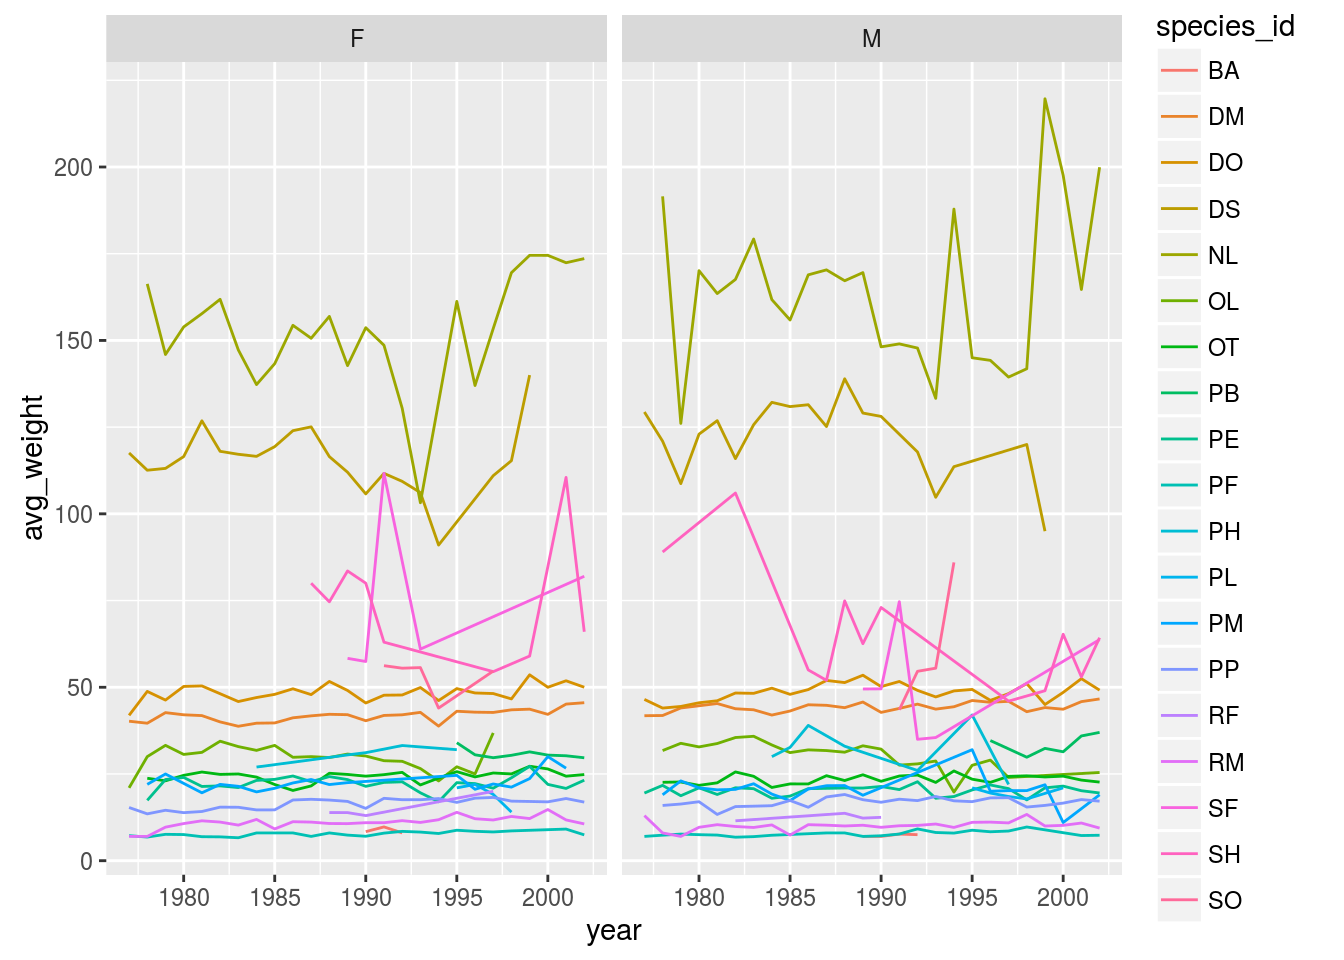
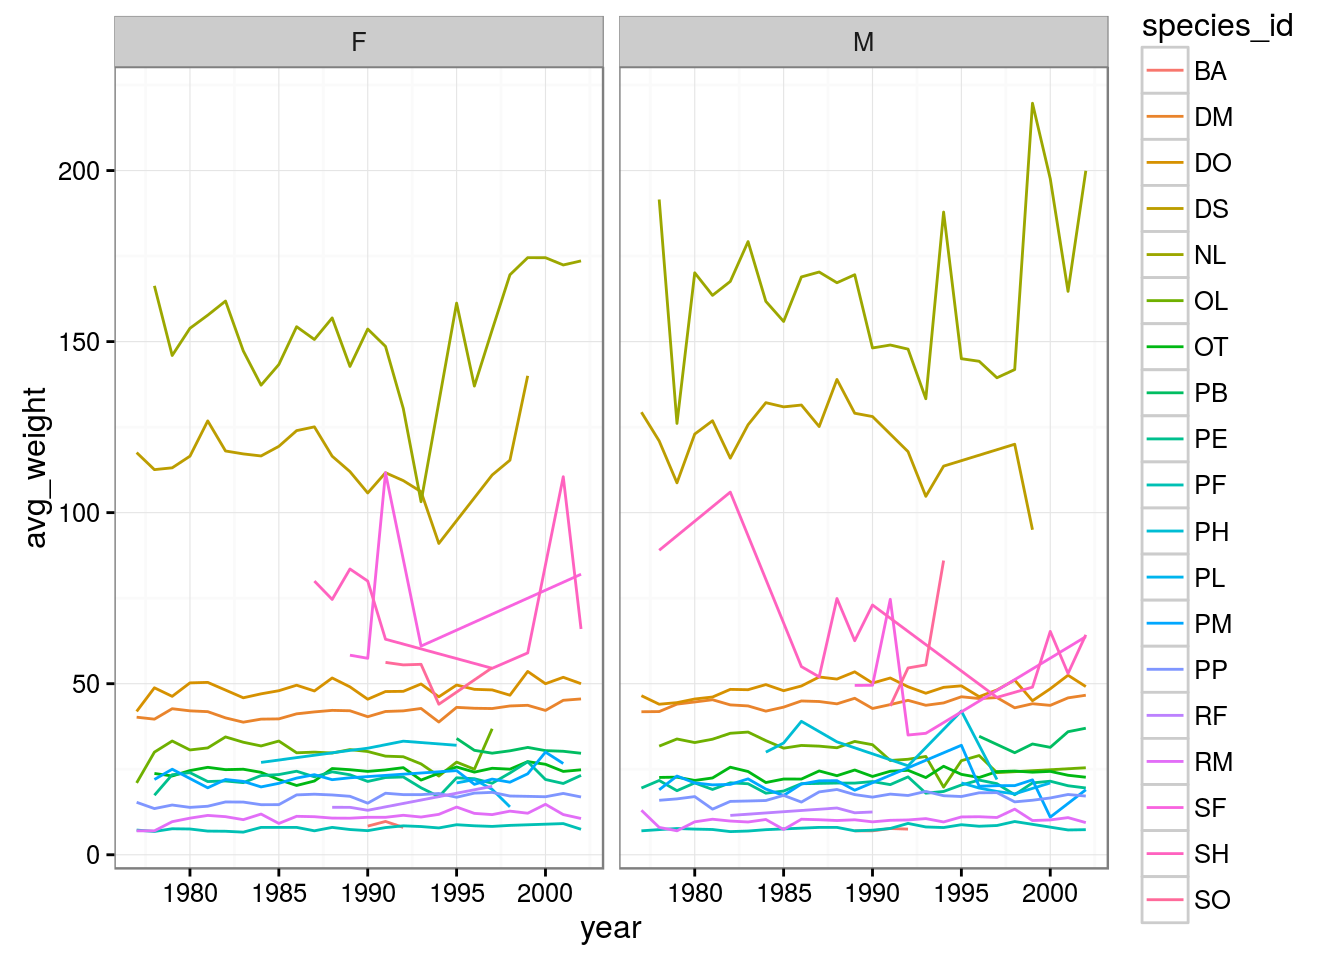
render visualization lesson

diff --git a/05-visualization-ggplot2.html b/05-visualization-ggplot2.html
@@ -276,11 +276,15 @@ surveys_complete &lt;-<span class="st"> </span>surveys_complete %&gt;%
 <div class="sourceCode"><pre class="sourceCode r"><code class="sourceCode r"><span class="kw">ggplot</span>(<span class="dt">data =</span> yearly_sex_counts, <span class="kw">aes</span>(<span class="dt">x =</span> year, <span class="dt">y =</span> n, <span class="dt">color =</span> species_id, <span class="dt">group =</span> sex)) +
 <span class="st">  </span><span class="kw">geom_line</span>() +<span class="st"> </span><span class="kw">facet_wrap</span>(~<span class="st"> </span>species_id)</code></pre></div>
 <p><img src="img/R-ecology-facet-by-species-and-sex-1.png" title="" alt="" width="672" /></p>
+<p>Usually plots with white background looks more readable in the publications. We can set the background to white using function theme_bw().</p>
+<div class="sourceCode"><pre class="sourceCode r"><code class="sourceCode r"><span class="kw">ggplot</span>(<span class="dt">data =</span> yearly_sex_counts, <span class="kw">aes</span>(<span class="dt">x =</span> year, <span class="dt">y =</span> n, <span class="dt">color =</span> species_id, <span class="dt">group =</span> sex)) +
+<span class="st">  </span><span class="kw">geom_line</span>() +<span class="st"> </span><span class="kw">facet_wrap</span>(~<span class="st"> </span>species_id) +<span class="st"> </span><span class="kw">theme_bw</span>()</code></pre></div>
+<p><img src="img/R-ecology-facet-by-species-and-sex-white-bg-1.png" title="" alt="" width="672" /></p>
 <blockquote>
 <p>We can improve the plot by coloring by sex instead of species (species are already in separate plots, so we don’t need to distinguish them better)</p>
 </blockquote>
 <div class="sourceCode"><pre class="sourceCode r"><code class="sourceCode r"><span class="kw">ggplot</span>(<span class="dt">data =</span> yearly_sex_counts, <span class="kw">aes</span>(<span class="dt">x =</span> year, <span class="dt">y =</span> n, <span class="dt">color =</span> sex, <span class="dt">group =</span> sex)) +
-<span class="st">  </span><span class="kw">geom_line</span>() +<span class="st"> </span><span class="kw">facet_wrap</span>(~<span class="st"> </span>species_id)</code></pre></div>
+<span class="st">  </span><span class="kw">geom_line</span>() +<span class="st"> </span><span class="kw">facet_wrap</span>(~<span class="st"> </span>species_id) +<span class="st"> </span><span class="kw">theme_bw</span>()</code></pre></div>
 <p><img src="img/R-ecology-facet-by-species-and-sex-colored-1.png" title="" alt="" width="672" /></p>
 <blockquote>
 <ul>
@@ -291,7 +295,7 @@ surveys_complete &lt;-<span class="st"> </span>surveys_complete %&gt;%
 <span class="st">                 </span><span class="kw">group_by</span>(year, species_id, sex) %&gt;%
 <span class="st">                 </span><span class="kw">summarise</span>(<span class="dt">avg_weight =</span> <span class="kw">mean</span>(weight, <span class="dt">na.rm =</span> <span class="ot">TRUE</span>))
 <span class="kw">ggplot</span>(<span class="dt">data =</span> yearly_weight, <span class="kw">aes</span>(<span class="dt">x=</span>year, <span class="dt">y=</span>avg_weight, <span class="dt">color =</span> species_id, <span class="dt">group =</span> species_id)) +
-<span class="st">  </span><span class="kw">geom_line</span>()</code></pre></div>
+<span class="st">  </span><span class="kw">geom_line</span>() +<span class="st"> </span><span class="kw">theme_bw</span>()</code></pre></div>
 <p><img src="img/R-ecology-average-weight-timeseries-1.png" title="" alt="" width="672" /></p>
 <blockquote>
 <ul>
@@ -300,7 +304,7 @@ surveys_complete &lt;-<span class="st"> </span>surveys_complete %&gt;%
 </ul>
 </blockquote>
 <div class="sourceCode"><pre class="sourceCode r"><code class="sourceCode r"><span class="kw">ggplot</span>(<span class="dt">data =</span> yearly_weight, <span class="kw">aes</span>(<span class="dt">x=</span>year, <span class="dt">y=</span>avg_weight, <span class="dt">color =</span> species_id, <span class="dt">group =</span> species_id)) +
-<span class="st">  </span><span class="kw">geom_line</span>() +<span class="st"> </span><span class="kw">facet_wrap</span>(~<span class="st"> </span>sex)</code></pre></div>
+<span class="st">  </span><span class="kw">geom_line</span>() +<span class="st"> </span><span class="kw">facet_wrap</span>(~<span class="st"> </span>sex) +<span class="st"> </span><span class="kw">theme_bw</span>()</code></pre></div>
 <p><img src="img/R-ecology-average-weight-time-facet_sex-1.png" title="" alt="" width="672" /></p>
 <p>So far our result looks quite good, but it is yet far from being publishable. What are other ways one can improve it? Take a look at the ggplot2 cheat sheet (<a href="https://www.rstudio.com/wp-content/uploads/2015/08/ggplot2-cheatsheet.pdf" class="uri">https://www.rstudio.com/wp-content/uploads/2015/08/ggplot2-cheatsheet.pdf</a>), and write down at least three more ideas (can leave them as comments to Etherpad).</p>
 <p>Now, let’s change names of axes to something more informative than ‘year’ and ‘n’ and add title to this figure:</p>
@@ -309,7 +313,7 @@ surveys_complete &lt;-<span class="st"> </span>surveys_complete %&gt;%
 <span class="st">  </span><span class="kw">facet_wrap</span>(~<span class="st"> </span>species_id) +
 <span class="st">  </span><span class="kw">labs</span>(<span class="dt">title =</span> <span class="st">&#39;Observed species in time&#39;</span>,
        <span class="dt">x =</span> <span class="st">&#39;Year of observation&#39;</span>,
-       <span class="dt">y =</span> <span class="st">&#39;Number of species&#39;</span>)</code></pre></div>
+       <span class="dt">y =</span> <span class="st">&#39;Number of species&#39;</span>) +<span class="st"> </span><span class="kw">theme_bw</span>()</code></pre></div>
 <p><img src="img/R-ecology-number_species_year_with_right_labels-1.png" title="" alt="" width="672" /></p>
 <p>Now, thanks to our efforts, axes have much more informative names, yet quite small so it could be hard to read them. Let’s change their size (and font just in sake of fun):</p>
 <div class="sourceCode"><pre class="sourceCode r"><code class="sourceCode r"><span class="kw">ggplot</span>(<span class="dt">data =</span> yearly_sex_counts, <span class="kw">aes</span>(<span class="dt">x =</span> year, <span class="dt">y =</span> n, <span class="dt">color =</span> sex, <span class="dt">group =</span> sex)) +
@@ -318,16 +322,30 @@ surveys_complete &lt;-<span class="st"> </span>surveys_complete %&gt;%
 <span class="st">  </span><span class="kw">labs</span>(<span class="dt">title =</span> <span class="st">&#39;Observed species in time&#39;</span>,
        <span class="dt">x =</span> <span class="st">&#39;Year of observation&#39;</span>,
        <span class="dt">y =</span> <span class="st">&#39;Number of species&#39;</span>) +
-<span class="st">  </span><span class="kw">theme</span>(<span class="dt">text=</span><span class="kw">element_text</span>(<span class="dt">size=</span><span class="dv">16</span>, <span class="dt">family=</span><span class="st">&quot;Arial&quot;</span>))</code></pre></div>
+<span class="st">  </span><span class="kw">theme</span>(<span class="dt">text=</span><span class="kw">element_text</span>(<span class="dt">size=</span><span class="dv">16</span>, <span class="dt">family=</span><span class="st">&quot;Arial&quot;</span>)) +<span class="st"> </span><span class="kw">theme_bw</span>()</code></pre></div>
 <p><img src="img/R-ecology-number_species_year_with_right_labels_xfont_size-1.png" title="" alt="" width="672" /></p>
-<p>Now, labels became bigger, but there are still few things that one could be improved. Please, take another five minutes and try to add another one or two things, to make it look even more beautiful. Use ggplot2 cheat sheet, which we linked earlier for inspiration.</p>
+<p>After our manipulations we notice that the values on the x-axis are still not properly readable. Let’s change the orientation of the labels and adjust them vertically and horizontally so they don’t overlap. You can use a 90 degree angle, or experiment to find the appropriate angle for diagonally oriented labels.</p>
+<div class="sourceCode"><pre class="sourceCode r"><code class="sourceCode r"><span class="kw">ggplot</span>(<span class="dt">data =</span> yearly_sex_counts, <span class="kw">aes</span>(<span class="dt">x =</span> year, <span class="dt">y =</span> n, <span class="dt">color =</span> sex, <span class="dt">group =</span> sex)) +
+<span class="st">    </span><span class="kw">geom_line</span>() +
+<span class="st">    </span><span class="kw">facet_wrap</span>(~<span class="st"> </span>species_id) +
+<span class="st">    </span><span class="kw">theme_bw</span>() +
+<span class="st">    </span><span class="kw">theme</span>(<span class="dt">axis.text.x =</span> <span class="kw">element_text</span>(<span class="dt">colour=</span><span class="st">&quot;grey20&quot;</span>, <span class="dt">size=</span><span class="dv">12</span>, <span class="dt">angle=</span><span class="dv">90</span>, <span class="dt">hjust=</span>.<span class="dv">5</span>, <span class="dt">vjust=</span>.<span class="dv">5</span>),
+          <span class="dt">axis.text.y =</span> <span class="kw">element_text</span>(<span class="dt">colour=</span><span class="st">&quot;grey20&quot;</span>, <span class="dt">size=</span><span class="dv">12</span>),
+          <span class="dt">text=</span><span class="kw">element_text</span>(<span class="dt">size=</span><span class="dv">16</span>, <span class="dt">family=</span><span class="st">&quot;Arial&quot;</span>)) +
+<span class="st">    </span><span class="kw">labs</span>(<span class="dt">title =</span> <span class="st">&#39;Observed species in time&#39;</span>,
+         <span class="dt">x =</span> <span class="st">&#39;Year of observation&#39;</span>,
+         <span class="dt">y =</span> <span class="st">&#39;Number of species&#39;</span>)</code></pre></div>
+<p><img src="img/R-ecology-number_species_year_with_right_labels_xfont_orientation-1.png" title="" alt="" width="672" /></p>
+<p>Now, labels became bigger and readable, but there are still few things that one could be improved. Please, take another five minutes and try to add another one or two things, to make it look even more beautiful. Use ggplot2 cheat sheet, which we linked earlier for inspiration.</p>
 <p>Here are some ideas:</p>
 <ul>
 <li>See if you can change thickness of the lines.</li>
 <li>Can you find a way to change the name of the legend? What about its labels?</li>
 <li>Use different color palette to improve the look (<a href="http://www.cookbook-r.com/Graphs/Colors_(ggplot2)/" class="uri">http://www.cookbook-r.com/Graphs/Colors_(ggplot2)/</a>)</li>
-<li>Bonus: Let’s change the orientation of the labels so they don’t overlap. You can use a 90 degree angle, or experiment to find the appropriate angle for diagonally oriented labels.</li>
 </ul>
+<p>When you created your perfect plot. You can save it to the file in your favourite format. You can easily change the size by specifying the width and height of your plot.</p>
+<div class="sourceCode"><pre class="sourceCode r"><code class="sourceCode r"><span class="kw">ggsave</span>(<span class="st">&quot;observed_species_in_time.png&quot;</span>, <span class="dt">width=</span><span class="dv">15</span>, <span class="dt">height=</span><span class="dv">10</span>)</code></pre></div>
+<p>Enjoy plotting with ggplot2!</p>
 </div>
 
 
